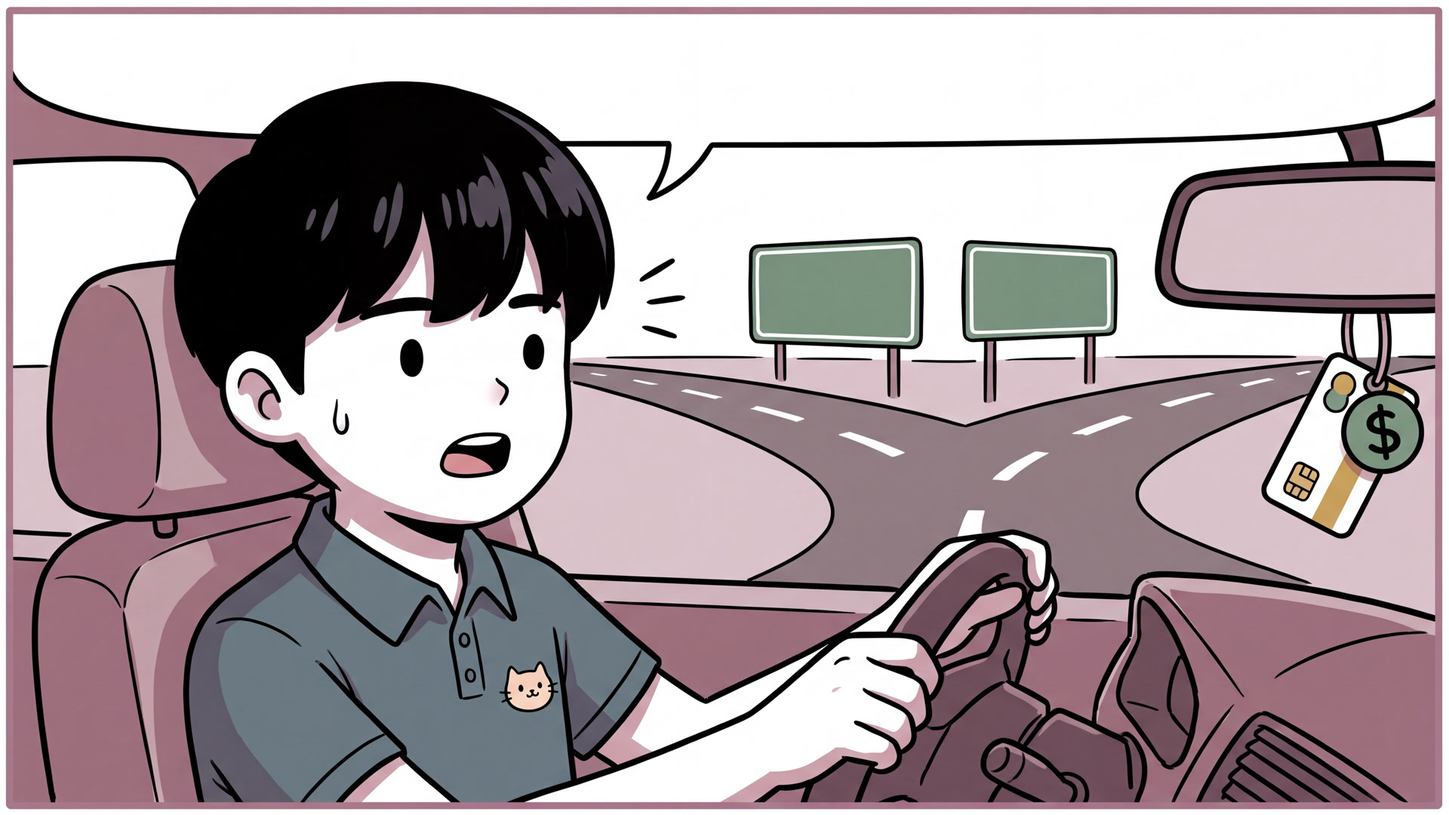
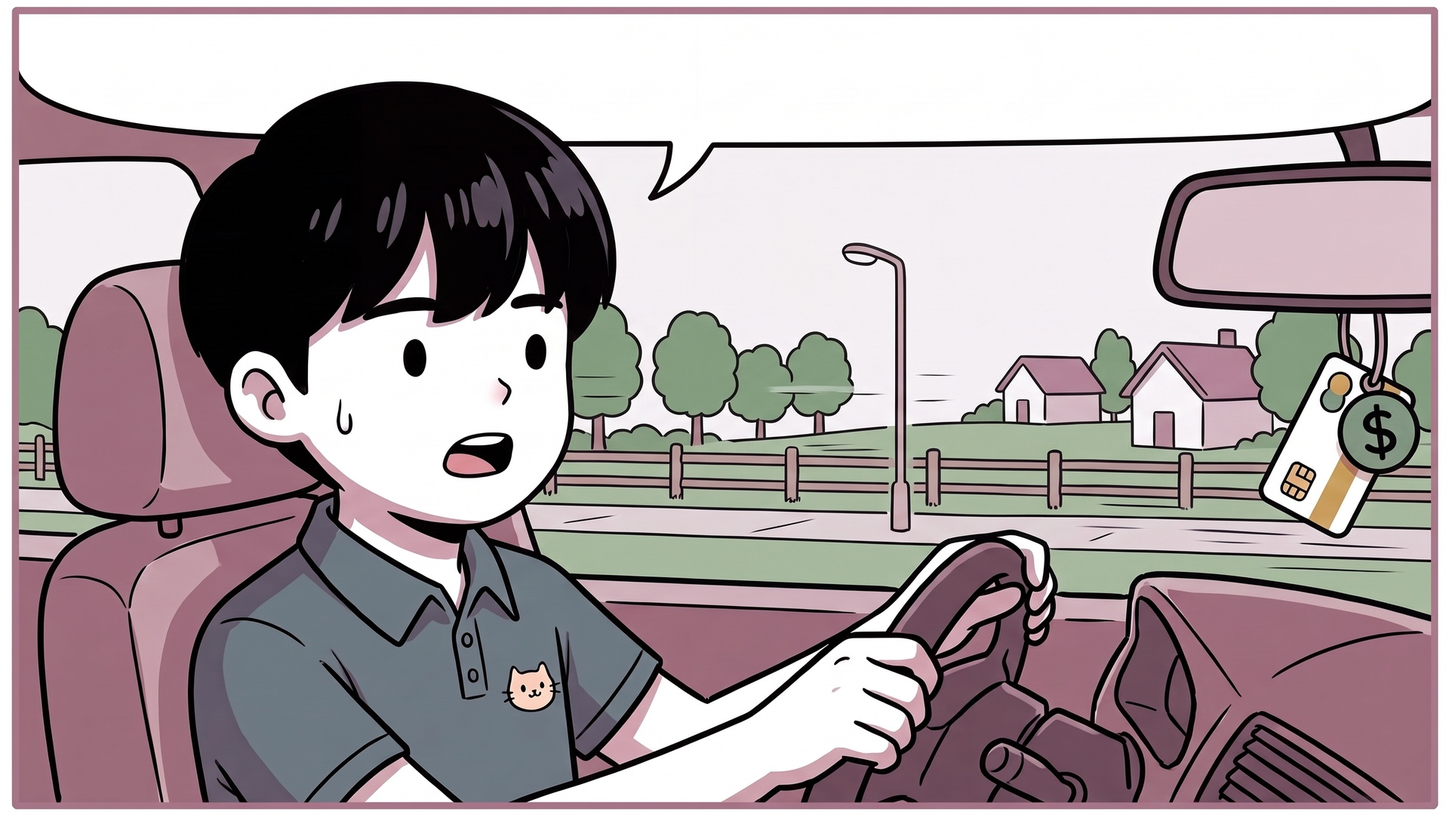
V1-02 New Final, PC-04 carpet patch over the locked clip, handoff brief for a session on the user's computer
Claude-Session: https://claude.ai/code/session_01Wfk5ePJ22LN7xs1AbjaDY5

diff --git a/storyboard/animatic/plan.js b/storyboard/animatic/plan.js
@@ -22,10 +22,12 @@ const frames = (id) => {
   else if (out.length > 1) out.forEach((f, j) => (f.label = `${j + 1}/${out.length}`));
   return out;
 };
+// a still patch held over part of a clip (patches/<clip name>.png at the clip's own pixel size), e.g. PC-04's carpet
+const patchFor = (f) => { const p = path.join(__dirname, "patches", `${path.parse(f).name}.png`); return fs.existsSync(p) ? p : null; };
 const clipFor = (id) => { const f = id && path.join(CLIPS, `${id}.mp4`); return f && fs.existsSync(f) ? f : null; };
 const seconds = (f) => parseFloat(execFileSync("ffprobe", ["-v", "error", "-show_entries", "format=duration", "-of", "csv=p=0", f]).toString());
 
-// clip: { file, seconds, fit } (fit = start+end clip sped up so its end frame lands) or null; text: its overlay key
+// clip: { file, seconds, fit, patch } (fit = start+end clip sped up so its end frame lands; patch = a still held over part of it) or null; text: its overlay key
 // frames: [{ img, label, text, clip }], the stills (also the fallback when a clip is missing); img is null for a
 // full-frame overlay (the text is the picture). A single frame or a start+end pair is one picture, so the shot's
 // clip (<ID>.mp4) plays the whole shot; a shot cut from several frames (b/c/d, or a gen.frames re-cut) plays each
@@ -43,7 +45,7 @@ const plan = (sh) => {
   if (!fr.length && textKey(sh.id)) fr = [{ img: null, label: "", text: sh.id }];
   const cuts = fr.length > 1 && !/END$/.test(fr[fr.length - 1].label);
   const file = !cuts && (clipFor(sh.id) || clipFor(src)), D = file && seconds(file);
-  const clip = file ? { file, seconds: D, fit: /S\+E/.test((sh.gen && sh.gen.how) || "") && D > dur } : null;
+  const clip = file ? { file, seconds: D, fit: /S\+E/.test((sh.gen && sh.gen.how) || "") && D > dur, patch: patchFor(file) } : null;
   if (cuts) fr = fr.map((f) => { const c = f.img && clipFor(name(f.img)); return c ? { ...f, clip: { file: c, seconds: seconds(c), fit: false } } : f; });
   return { sh, dur, clip, text: textKey(sh.id), frames: fr };
 };

diff --git a/storyboard/animatic/section.js b/storyboard/animatic/section.js
@@ -54,10 +54,12 @@ const enc = ["-c:v", "libx264", "-preset", "medium", "-crf", "22", "-pix_fmt", "
     const ov = path.join(BUILD, `ov-${k}.png`);
     await p.screenshot({ path: ov, omitBackground: true });
     const seg = path.join(BUILD, `seg-${String(k++).padStart(3, "0")}.mp4`);
-    const v = `[0]${fit ? `setpts=PTS*${(T / c.seconds).toFixed(5)},` : ""}fps=${FPS},scale=${W}:${H}:force_original_aspect_ratio=increase,crop=${W}:${H},tpad=stop_mode=clone:stop_duration=5`;
+    // a patch (patches/<clip>.png, the clip's own size) is laid over the clip first: PC-04's carpet is held still
+    const P = texts.length + 2;
+    const v = `[0]${fit ? `setpts=PTS*${(T / c.seconds).toFixed(5)},` : ""}fps=${FPS}${c.patch ? `[raw];[${P}]format=rgba[pt];[raw][pt]overlay` : ""},scale=${W}:${H}:force_original_aspect_ratio=increase,crop=${W}:${H},tpad=stop_mode=clone:stop_duration=5`;
     const graph = v + texts.map((t, i) => `[c${i}];[${i + 2}]scale=${W}:${H}[t${i}];[c${i}][t${i}]overlay=enable='between(n,${t.a},${t.b - 1})'`).join("")
       + `[v];[1]scale=${W}:${H}[ov];[v][ov]overlay,format=yuv420p`;
-    execFileSync("ffmpeg", ["-y", "-nostdin", "-loglevel", "error", "-i", c.file, "-loop", "1", "-i", ov, ...texts.flatMap((t) => ["-loop", "1", "-i", t.file]),
+    execFileSync("ffmpeg", ["-y", "-nostdin", "-loglevel", "error", "-i", c.file, "-loop", "1", "-i", ov, ...texts.flatMap((t) => ["-loop", "1", "-i", t.file]), ...(c.patch ? ["-loop", "1", "-i", c.patch] : []),
       "-filter_complex", graph, "-an", "-frames:v", String(m), ...enc, seg]);
     parts.push(`file '${seg}'`);
     nClip++;

diff --git a/storyboard/ae/build-animatic.jsx b/storyboard/ae/build-animatic.jsx
@@ -192,6 +192,16 @@
       tr.setValueAtTime(HEAD + (sh.clip.fit ? sh.dur : last), last);
       span(L, 0, len);
       L.name = sh.id + (sh.clip.fit ? " clip (fitted)" : " clip");
+      // a still patch over part of the clip (PC-04: the carpet, so it can't crawl), parented so it follows any move
+      var patch = sh.clip.patch ? footage(sh.clip.patch, fStills) : null;
+      if (patch) {
+        var Pt = comp.layers.add(patch);
+        span(Pt, 0, len);
+        Pt.parent = L;
+        Pt.transform.position.setValue([clipItem.width / 2, clipItem.height / 2]);
+        Pt.transform.scale.setValue([100 * clipItem.width / patch.width, 100 * clipItem.height / patch.height]);
+        Pt.name = sh.id + " patch (still)";
+      }
       // a camera move done in AE on a locked Kling clip (PC-04: its own tilt made the carpet crawl)
       if (sh.move === "tilt-up") {
         var cs = cover(clipItem), dy = H * 0.06;

diff --git a/storyboard/ae/export.js b/storyboard/ae/export.js
@@ -144,7 +144,7 @@ print(json.dumps(out))`], { input: JSON.stringify(crops) }).toString());
     return {
       id: sh.id, sec: sh.sec.name || sh.id.split("-")[0], start: Math.round((sh.t - T0) * 1000) / 1000, dur: Math.round(pl.dur * 1000) / 1000,
       lyric: sh.lyric === "(same line)" ? "" : sh.lyric || "", ui: sh.ui || "", how: (sh.gen && sh.gen.how) || "", move: (sh.gen && sh.gen.ae) || "",
-      clip: pl.clip ? { file: rel(pl.clip.file), seconds: pl.clip.seconds, fit: pl.clip.fit } : null, text: pl.text,
+      clip: pl.clip ? { file: rel(pl.clip.file), seconds: pl.clip.seconds, fit: pl.clip.fit, patch: pl.clip.patch ? rel(pl.clip.patch) : null } : null, text: pl.text,
       frames: pl.frames.map((f) => ({ img: f.img ? rel(f.img) : null, label: f.label, text: f.text, clip: f.clip ? { file: rel(f.clip.file), seconds: f.clip.seconds } : null })),
     };
   }).filter((s) => s.dur > 0);

diff --git a/CLAUDE.md b/CLAUDE.md
@@ -1,6 +1,6 @@
 # Tiff's birthday music video
 
-Commissioned birthday music video for Tiff (from Adrian), set to "My Whole Supply". The storyboard lives in `storyboard/` (`data.js` is the source of truth; `index.html` renders it). The animatic is rebuilt with `storyboard/animatic/build.sh`; a single-section animatic from the locked renders is `node storyboard/animatic/section.js V1` (480p, song timing), and the full film is `node storyboard/animatic/section.js ALL` (**1080p from 11 October, user**; a second argument sets another height). `storyboard/animatic/plan.js` decides what each shot plays (clip, stills, re-cut or full-frame overlay) for both the ffmpeg animatic and the After Effects export. Extra frames are named `<ID>b/c/d` (cuts or push-in steps) and `<ID>-end` (start+end shots); `gen.of` reuses another shot's frames (choruses, IN-01 = PR-01) and `gen.frames` re-cuts a list of frames (OU-04); `renders/wip.txt` lists frames still to adjust. All 74 shots have frames as of 10 October. **On-screen text (10 October):** `storyboard/overlays/spec.js` lists every overlay (speech bubbles, chat, role cards, GPS readouts, signs, quiz card, scorecards, labels, end card) per frame name; `node storyboard/overlays/render.js [frame…]` renders transparent 1920×1080 PNGs to `overlays/png/` (and previews over the renders to the git-ignored `overlays/preview/`). The animatic composites them automatically (`NOTEXT=1` turns them off); OU-07's end card is the overlay itself. **Clips (11 October):** Kling clips live in `storyboard/animatic/clips/<SHOT-ID>.mp4` (git-ignored; `storyboard/animatic/clips.json` maps shot ID to Higgsfield result URL, and `node storyboard/animatic/fetch-clips.js` downloads any that are missing; add each newly locked clip there) and replace that shot's stills in the animatic; a `gen.of` shot uses its source's clip. Start+end clips are sped up to fit the shot so the end frame lands; the rest play at real speed and are cut at the shot's end (user's choice). Text overlays stay on clip shots as placeholders; tracked ones (EXIT 41, V2-10 scorecards) drift and get redone in After Effects. **After Effects (11 October, user wants the edit and the text editable in AE):** `storyboard/ae/` holds `build-animatic.jsx` (run in AE via File > Scripts > Run Script File) plus `animatic-data.jsxinc` and `graphics/`, both written by `node storyboard/ae/export.js`; re-run the export whenever data.js, the renders, the clips or overlays/spec.js change. The script builds a 1920×1080 24 fps edit comp on the song timeline with one precomp per shot (1 s head and 2 s tail handles for retiming; clips time-remapped so speed is two keyframes; stills with a push-in), and every overlay item as a null with its graphic PNG and live AE text layers (fonts: Baloo 2, Nunito, Overpass, Patrick Hand). See `storyboard/ae/README.md`. A mock of the AE scripting objects is the only way to dry-run the script here; AE itself is not available in the container, so Claude cannot write an .aep: the script downloads any missing clip itself (curl, URLs from clips.json via export.js) and saves a new project as `storyboard/ae/Tiff Animatic.aep` (never over an existing one). **Kit zip for the user (11 October):** `Tiff-AE/` with `START HERE.txt`, `fonts/` (static TTFs instanced from the Google Fonts variable fonts with fontTools; Overpass PS names fixed to `Overpass-*`), `storyboard/ae/` and the referenced renders plus `song.mp3`, no clips (28.5 MB; file uploads to the user are capped at 30 MB). **Revisions (20 October, `storyboard/prompts/revisions-20oct.md`):** V1-02 gets roadside scenery through the window (user renders an edit of its own job; Claude masks only the window into the locked frame; its clip then needs a Kling re-run); V1-06 is now a WhatsApp group chat on the V1-05 plate (`gen.of: "V1-05"`, overlay types `wahead`/`wa`, avatars cut to `overlays/img/`, old triptych in `refs/v1-06-avatars.jpg`); PC-04 re-rendered with a locked camera (job `ab6258e0…`, 7 credits; its old tilt made the carpet crawl) and the tilt is an AE move (`gen.ae: "tilt-up"`); the chorus/final-chorus role cards are `hidden: true` in spec.js (left out of the animatic, built switched off in AE) except the gold FC-05 MY HOME and FC-06 EVERY VERSION · ACCEPTED, which stay (user); BR-02 is the user's edit without the numbers. The AE build re-downloads a clip whose size differs from `clipSizes` in the data (a replaced clip).
+Commissioned birthday music video for Tiff (from Adrian), set to "My Whole Supply". The storyboard lives in `storyboard/` (`data.js` is the source of truth; `index.html` renders it). The animatic is rebuilt with `storyboard/animatic/build.sh`; a single-section animatic from the locked renders is `node storyboard/animatic/section.js V1` (480p, song timing), and the full film is `node storyboard/animatic/section.js ALL` (**1080p from 11 October, user**; a second argument sets another height). `storyboard/animatic/plan.js` decides what each shot plays (clip, stills, re-cut or full-frame overlay) for both the ffmpeg animatic and the After Effects export. Extra frames are named `<ID>b/c/d` (cuts or push-in steps) and `<ID>-end` (start+end shots); `gen.of` reuses another shot's frames (choruses, IN-01 = PR-01) and `gen.frames` re-cuts a list of frames (OU-04); `renders/wip.txt` lists frames still to adjust. All 74 shots have frames as of 10 October. **On-screen text (10 October):** `storyboard/overlays/spec.js` lists every overlay (speech bubbles, chat, role cards, GPS readouts, signs, quiz card, scorecards, labels, end card) per frame name; `node storyboard/overlays/render.js [frame…]` renders transparent 1920×1080 PNGs to `overlays/png/` (and previews over the renders to the git-ignored `overlays/preview/`). The animatic composites them automatically (`NOTEXT=1` turns them off); OU-07's end card is the overlay itself. **Clips (11 October):** Kling clips live in `storyboard/animatic/clips/<SHOT-ID>.mp4` (git-ignored; `storyboard/animatic/clips.json` maps shot ID to Higgsfield result URL, and `node storyboard/animatic/fetch-clips.js` downloads any that are missing; add each newly locked clip there) and replace that shot's stills in the animatic; a `gen.of` shot uses its source's clip. Start+end clips are sped up to fit the shot so the end frame lands; the rest play at real speed and are cut at the shot's end (user's choice). Text overlays stay on clip shots as placeholders; tracked ones (EXIT 41, V2-10 scorecards) drift and get redone in After Effects. **After Effects (11 October, user wants the edit and the text editable in AE):** `storyboard/ae/` holds `build-animatic.jsx` (run in AE via File > Scripts > Run Script File) plus `animatic-data.jsxinc` and `graphics/`, both written by `node storyboard/ae/export.js`; re-run the export whenever data.js, the renders, the clips or overlays/spec.js change. The script builds a 1920×1080 24 fps edit comp on the song timeline with one precomp per shot (1 s head and 2 s tail handles for retiming; clips time-remapped so speed is two keyframes; stills with a push-in), and every overlay item as a null with its graphic PNG and live AE text layers (fonts: Baloo 2, Nunito, Overpass, Patrick Hand). See `storyboard/ae/README.md`. A mock of the AE scripting objects is the only way to dry-run the script here; AE itself is not available in the container, so Claude cannot write an .aep: the script downloads any missing clip itself (curl, URLs from clips.json via export.js) and saves a new project as `storyboard/ae/Tiff Animatic.aep` (never over an existing one). **Kit zip for the user (11 October):** `Tiff-AE/` with `START HERE.txt`, `fonts/` (static TTFs instanced from the Google Fonts variable fonts with fontTools; Overpass PS names fixed to `Overpass-*`), `storyboard/ae/` and the referenced renders plus `song.mp3`, no clips (28.5 MB; file uploads to the user are capped at 30 MB). **Handoff (20 October): `HANDOFF.md` is the brief for a new session on the user's computer (AE installed); a new song is coming, so everything gets retimed.** **Revisions (20 October, `storyboard/prompts/revisions-20oct.md`):** V1-02 is the user's New Final (roadside scenery through the window) used whole, since its lines are redrawn a few pixels off and a window-only composite would show seams; its old fork clip is out of clips.json until a Kling re-run (5.25 credits, needs a yes); V1-06 is now a WhatsApp group chat on the V1-05 plate (`gen.of: "V1-05"`, overlay types `wahead`/`wa`, avatars cut to `overlays/img/`, old triptych in `refs/v1-06-avatars.jpg`); PC-04 re-rendered with a locked camera (job `ab6258e0…`, 7 credits; its old tilt made the carpet crawl) and the tilt is an AE move (`gen.ae: "tilt-up"`); its carpet still shimmered, so a still patch from the Higgsfield frame (`animatic/patches/PC-04.png`, at the clip's 1928×1076, carpet and surroundings only, clear of the cats) is held over the clip in both the animatic and AE (plan.js `clip.patch`); the chorus/final-chorus role cards are `hidden: true` in spec.js (left out of the animatic, built switched off in AE) except the gold FC-05 MY HOME and FC-06 EVERY VERSION · ACCEPTED, which stay (user); BR-02 is the user's edit without the numbers. The AE build re-downloads a clip whose size differs from `clipSizes` in the data (a replaced clip).
 
 ## Working rules
 

diff --git a/HANDOFF.md b/HANDOFF.md
@@ -1,0 +1,81 @@
+# Handoff: Tiff's birthday music video (20 October)
+
+A commissioned birthday music video for Tiff (from Adrian), set to "My Whole Supply", drawn in a doodle comic style ("mauve ink + accent colours"). This file is for a new Claude session on Grady's computer, where After Effects is installed. Read `CLAUDE.md` next: it has every working rule and every locked decision. This file covers where things stand and what to do next.
+
+## Where it stands
+
+- **Storyboard:** all 74 shots have locked frames in `storyboard/animatic/renders/`. `storyboard/data.js` is the source of truth: shots, timing, lyrics, prompts and notes. Open `storyboard/index.html` to read it.
+- **Clips:** 29 Kling 3.0 clips at 1080p cover the priority scenes and the final chorus. Their URLs are in `storyboard/animatic/clips.json`, and their job IDs are in `storyboard/renders-manifest.md`.
+- **On-screen text:** every overlay is defined in `storyboard/overlays/spec.js`.
+- **After Effects:** `storyboard/ae/build-animatic.jsx` builds the editable project, with one precomp per shot, time-remapped clips and live text layers. AE could not be run in the cloud session, so **the script has never run in real AE**. It was only dry-run against a mock, so expect small fixes on its first real run.
+- **Animatic:** `node storyboard/animatic/section.js ALL` renders the film with ffmpeg at 1080p and takes about 25 minutes. Use `section.js <SECTION> 480` (e.g. `V1`, `PC`, `C1`, `FC`) for quick checks.
+- **Higgsfield balance:** about 960 credits after the 20 October PC-04 re-render.
+
+## Set up on this computer
+
+1. **Repo:** the zip has the whole repo except the git history and two large reference sheets. For commits and pushes, clone the repo instead: `git clone https://github.com/grxu/Tiff-s-Birthday && git checkout claude/jolly-albattani-8yl539`. Then copy `fonts/` in from this zip.
+2. **Tools:** Node 18 or later, ffmpeg (with ffprobe), and Python 3 with Pillow (`pip install pillow`; add `scipy` for mask work). Playwright with Chromium is used by `overlays/render.js` and `ae/export.js`: run `npm i -g playwright && npx playwright install chromium`.
+3. **Clips (git-ignored, about 230 MB):** run `node storyboard/animatic/fetch-clips.js`. The AE script also downloads any missing or replaced clip when it runs.
+4. **Song:** goes at `storyboard/song.mp3` (git-ignored). **A new song is coming** (see open item 1).
+5. **Fonts:** install every `.ttf` in `fonts/` (Baloo 2, Nunito, Overpass, Patrick Hand), then restart AE.
+6. **Connectors:** connect Higgsfield to the session (generation, media upload, job lookups). Render Drop is a claude.ai artifact at https://claude.ai/artifact/YSGYxLe5LgygmJZSR3xWNo, and the user drops locked frames there. Read its `renders` collection with the ArtifactData tool, and fetch files with the Artifact tool (`read` with `path` = asset ID).
+
+## Running After Effects from the session
+
+- **macOS:** `osascript -e 'tell application "Adobe After Effects 2025" to DoScriptFile "/full/path/storyboard/ae/build-animatic.jsx"'`. Change the year to the installed version.
+- **Windows:** `"C:\Program Files\Adobe\Adobe After Effects 2025\Support Files\AfterFX.exe" -r "C:\full\path\storyboard\ae\build-animatic.jsx"`
+- **AE preference:** turn on Preferences > Scripting & Expressions > *Allow Scripts to Write Files and Access Network* (needed for the clip download).
+- **Saving:** the script saves `storyboard/ae/Tiff Animatic.aep`, or `… 2.aep` and so on; it never overwrites a project. It ends with an alert listing missing files and fonts.
+- **Order:** after any change to data.js, the renders, the clips or spec.js, run `node storyboard/ae/export.js` first. It rewrites `animatic-data.jsxinc` and `graphics/`.
+
+## Revisions done on 20 October (`storyboard/prompts/revisions-20oct.md`)
+
+| Shot | Change |
+|---|---|
+| V1-02 | **New Final** from Render Drop (roadside scenery through the window) is used whole: its lines are redrawn a few pixels off the old frame, so a window-only composite would show seams. The old clip showed the road fork, so it's removed from clips.json and V1-02 plays the still for now (see open item 2). |
+| V1-06 | A WhatsApp group chat ("🚗 LIVE UPDATES": Tiff's update, then replies from Neisa, Thei and Mel with their avatars) beside the V1-05 phone plate (`gen.of: "V1-05"`). Built from the overlay types `wahead` and `wa`; the avatars are in `overlays/img/`. In AE, slide each reply to its name in the lyric. |
+| PC-04 | The new clip has a locked camera (job `ab6258e0…`); the old clip's tilt made the carpet crawl. The carpet still shimmered, so a still patch of the carpet and its surroundings, from the Higgsfield frame, is held over it: `animatic/patches/PC-04.png`, at the clip's own size (1928×1076), avoiding every cat. Both the animatic and AE apply it; in AE it's the layer "PC-04 patch (still)", parented to the clip. The tilt up to the thrones is an AE move (`gen.ae: "tilt-up"`: 112% scale, position keyframes). |
+| Chorus cards | The top-left role cards (WARDROBE EXPERT, COSPLAY CREW, TRAVEL PLANNER, PHOTOGRAPHER, CHEF) are `hidden: true` in spec.js: they're left out of the animatic and built switched off in AE. The gold FC-05 **MY HOME** and FC-06 **EVERY VERSION · ACCEPTED** stay visible. |
+| BR-02 | The user's edit without the "4) 5) 6) 7)" numbers. |
+
+## Open items, in order
+
+1. **Retime to the new song.** Grady will share it in the new session. Ask whether the lyrics or structure changed, or only the timing.
+   - **Where timing lives:** `SB.song` in data.js (`length`, `end`, `bpm`, `bar`, the notes) and every shot's `t`, its start in song seconds. A shot ends where the next shot starts. PR-01 starts at `t: -3`, a silent pre-roll before the music. The last shot ends at `SB.song.end`.
+   - **How the old times were made:** from an audio analysis (sections within about ±1 s, lines within about ±2 s). For the new song, get word timings (e.g. faster-whisper with word timestamps, or ask Grady for a lyric-timed version), set each shot's `t` to its line's start, and snap cuts to the beat (`bar` = one bar in seconds).
+   - **Then:** move the old song aside, put the new one at `storyboard/song.mp3`, run `node storyboard/ae/export.js` and rebuild in AE. Check a few sections with `section.js <SEC> 480`.
+   - **Clips:** they keep their own length. Real-speed clips are cut at the shot's end, and start+end clips (`S+E` in `gen.how`) are sped up to fit. If a shot gets longer than its clip, the clip holds its last frame; flag those shots.
+2. **V1-02 clip.** Re-run Kling from the New Final frame: 3 s, pro (1080p), sound off = 5.25 credits. **Needs an explicit yes.** Upload the frame first (media_upload, PUT with `If-None-Match: *`, media_confirm), then use that media as `start_image`. Use the old V1-02 Kling motion (he turns to ask "Which turn?"; scenery slides past the window). Add the URL to clips.json and the job to renders-manifest.md.
+3. **Optional animation the user hasn't approved:**
+   - C1-03 (5.25) and DB2-01 (12.25), recommended.
+   - C1-04 (5.25) and C1-06 (7), which would complete Chorus 1.
+   - FC-08 A/B retries (7 each): A warps mid-blink, B drifts toward a more detailed anime face.
+4. **AE finishing:**
+   - Track the EXIT 41 sign (V1-04) and the V2-10 scorecards.
+   - Pop the V1-06 replies on their names.
+   - Sound effects (PINGs, wobble clicks, harp gliss: see each shot's `sfx` in data.js) and the GPS voice lines.
+5. **Deadline:** 20 October (from CLAUDE.md). Check with Grady whether it has moved.
+
+## Rules that matter most (all in CLAUDE.md)
+
+- **Higgsfield credits:** never spend without stating what and how much, and getting an explicit yes. "Make" is not a yes.
+- **Image settings:** Nano Banana 2.1, 16:9, 2k, thinking high, 1 image (2 credits).
+- **References:** attach only the character, Spinda and cat sheets and the charm image. Never attach a finished shot, except as the base of an edit of that same shot.
+- **Kling:** 3.0, pro (1080p, 1.75 credits per second), sound off, no text in the clips. If Higgsfield replies with a preset recommendation, retry with `declined_preset_id`.
+- **Git:** the song, the clips and rendered MP4s stay out of git. Branch `claude/jolly-albattani-8yl539`; no pull requests unless asked.
+
+## Map
+
+| Path | What |
+|---|---|
+| `storyboard/data.js` | shots, timing, lyrics, prompts (`gen`), notes |
+| `storyboard/animatic/plan.js` | what each shot plays (clip, stills, patch), shared by the animatic and AE |
+| `storyboard/animatic/section.js` | ffmpeg animatic |
+| `storyboard/animatic/clips.json`, `fetch-clips.js` | clip URLs and downloader |
+| `storyboard/animatic/renders/` | locked frames |
+| `storyboard/animatic/patches/` | still patches held over clips (PC-04) |
+| `storyboard/overlays/spec.js`, `render.js`, `img/` | on-screen text and its renderer |
+| `storyboard/ae/` | `export.js` → `animatic-data.jsxinc` + `graphics/`; `build-animatic.jsx`; README |
+| `storyboard/prompts/` | prompts per batch, including `revisions-20oct.md` |
+| `storyboard/renders-manifest.md` | every Higgsfield job and media ID |
+| `storyboard/refs/` | reference sheets (the two large no-chibi sheets are only in git and in Higgsfield, media `16f06fa1…` and `edf7de02…`) |

diff --git a/storyboard/prompts/revisions-20oct.md b/storyboard/prompts/revisions-20oct.md
@@ -52,3 +52,8 @@ Static locked-off camera: the camera does not move, tilt, pan or zoom at all. Th
 ## 4 · Role cards
 
 Every `card` item under C1-, C2- and FC- keys has `hidden: true`. render.js leaves them out of the overlay PNGs, so the animatic no longer shows them. export.js keeps them, and build-animatic.jsx builds them with their eyes switched off, named `<ID> card (hidden)`. Switch the eyes back on to show one, or delete `hidden: true` in spec.js and re-export.
+
+## Follow-up (20 October, later)
+
+- **V1-02:** the user's New Final from Render Drop (asset `cc096b9a30b8a6b833c4458d0ca519fd`) is now `renders/V1-02.jpg`, used whole. Its lines are redrawn a few pixels off the old frame, so a window-only mask would show seams around his head and the pillars. The old clip (road fork) is out of clips.json, so V1-02 plays the still until a Kling re-run (5.25 credits, needs a yes).
+- **PC-04:** the locked-camera clip's carpet still shimmered, so the user asked to mask it with the Higgsfield frame. `animatic/patches/PC-04.png` is that frame scaled to the clip's 1928×1076 (it lines up with the first frame). Its alpha covers the carpet, the step and a 22 px margin, minus anything that moves (the cats), with a 4 px soft edge. Over the clip, the carpet's frame-to-frame change drops from about 9 to about 2 grey levels (compression noise).

diff --git a/storyboard/renders-manifest.md b/storyboard/renders-manifest.md
@@ -195,3 +195,5 @@ Start frames are the user's own Higgsfield jobs. No text in the clips: the overl
 | PC-04 | `df6186db-706c-4bfc-9adc-162247182ffc` | 4s, locked camera (the old clip's tilt made the carpet crawl; the tilt is now an AE move) | `ab6258e0-fd78-4be1-ad2c-addccd02132e` (replaces `afa787d5…`) |
 
 BR-02: the user's edit without the "4) 5) 6) 7)" numbers, from Render Drop (asset `838430d25666c1a2b758ac0c38daf406`).
+V1-02: the user's New Final (Render Drop asset `cc096b9a30b8a6b833c4458d0ca519fd`); the old V1-02 clip (`6ea9afd5…`, road fork) is retired.
+PC-04 patch: `animatic/patches/PC-04.png`, from Render Drop asset `9b12ad1ea5a1cca48f190154fef449d4` (the PC-04 start frame).
